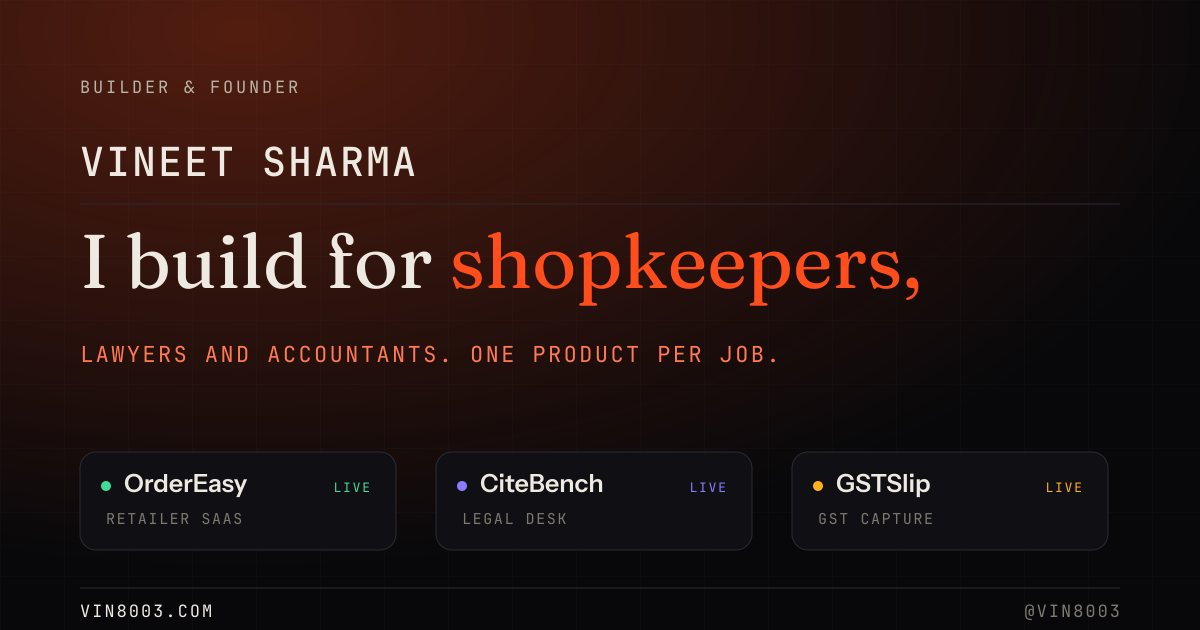
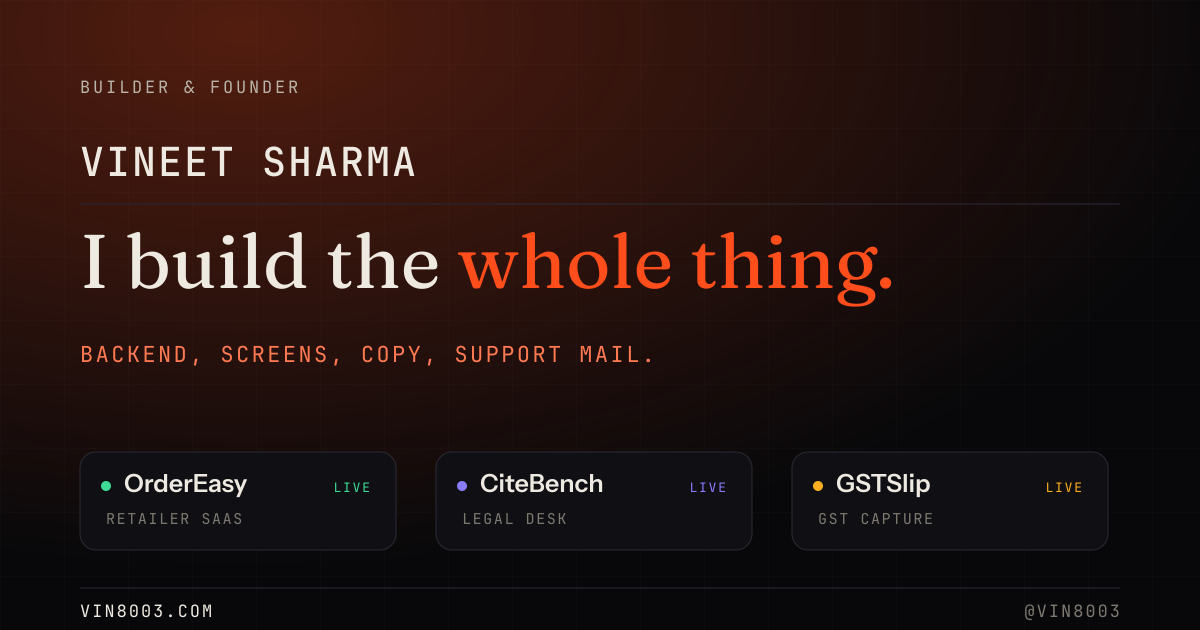
Make the tagline about Vineet, not the current product audiences
Hero claim is now 'I build the whole thing.' so it survives new products;
the subline carries the end-to-end loop and today's products. Thesis line
drops the 'army of AI assistants' framing for narrow products. Title,
meta tagline, About opener and social card follow.

Claude-Session: https://claude.ai/code/session_01DqFKXnwwENUUCsbrohHLwa

Changed region(s): [[0.2775, 0.3619, 0.7708, 0.4825], [0.0617, 0.5429, 0.6475, 0.573]]

diff --git a/src/data/site.ts b/src/data/site.ts
@@ -12,11 +12,11 @@ export const person = {
   location: 'Delhi NCR, India',
   email: 'vin8003@gmail.com',
   /** The line the whole site hangs off. */
-  claim: 'I build for shopkeepers, lawyers and accountants.',
+  claim: 'I build the whole thing.',
   /** Banner thesis - the wordmark's other half. */
   thesisLine: 'One product per job, done properly.',
   identity: 'Builder and founder. Dad of two. Delhi NCR, India.',
-  tagline: 'Builder and founder. I build software for people who still run their work by hand: the shop counter, the lawyer’s diary, the pile of GST invoices.',
+  tagline: 'Builder and founder in Delhi NCR. I build the whole thing, backend to support inbox, and keep every product to one job.',
 } as const;
 
 export const socials = [
@@ -883,7 +883,7 @@ export const buildLog: LogEntry[] = [
 
 /** THESIS - the founder line, then the working detail. */
 export const thesis = {
-  line: 'I want to build an army of AI assistants, each handling one specific piece of work.',
+  line: 'I want to build many narrow products, each doing one specific piece of work properly.',
   body: [
     'Not one assistant that claims to do everything. A set of narrow ones, each with its own surface, its own guardrail and its own definition of done. A general assistant is a demo. A narrow one is a colleague.',
     'The products are the first recruits, and each one says plainly what it is not. None of them pretends to do another one’s job.',
@@ -905,7 +905,7 @@ export const thesis = {
 /** ABOUT - short and personal. Not a résumé. */
 export const about = {
   lines: [
-    'I build software for people whose work still runs on registers and memory: a shop counter, a chamber’s diary, a month of GST invoices. I write the backend, the surface and the copy, then sit with the support mail. That whole loop is the job I actually wanted.',
+    'I write the backend, the surface and the copy, then sit with the support mail. That whole loop is the job I actually wanted.',
     'Ten years of Python and Django before this, across embedded electronics and sensors, fintech and banking, medical systems, casino gaming, image pipelines and AI data work. Different industries, same habit: get the thing into somebody’s hands and watch what breaks.',
     'Dad of two, in Delhi NCR. That is most of the reason the tooling has to be fast and the scope has to stay honest.',
   ],

diff --git a/README.md b/README.md
@@ -7,13 +7,13 @@ It is a static site: the front page below, plus `/demo/`, which hosts the four g
 
 | #   | Section          | Anchor      | What it holds                                                          |
 | --- | ---------------- | ----------- | ---------------------------------------------------------------------- |
-| —   | **Hero**         | `#top`      | "I build for shopkeepers, lawyers and accountants.", the 3D constellation, and an index of everything on the site |
+| —   | **Hero**         | `#top`      | "I build the whole thing.", the 3D constellation, and an index of everything on the site |
 | 01  | **Building now** | `#building` | The active products, each with a `LIVE` / `BUILDING` status chip        |
 | 02  | **Demo**         | `#demo`     | The four guided journeys, played natively from the real captured screens |
 | 03  | **Build log**    | `#log`      | Latest 10 entries, linking to the full log at `/log/`; each links to a PR or commit |
 | 04  | **Field notes**  | `#notes`    | One month of AI agents in numbers, linking to `/notes/agent-month/`    |
 | —   | **Writing**      | `#writing`  | Newest 3 of the 7 X Articles in `src/data/articles.ts`. `/writing/` lists all, `/writing/<slug>/` holds each, canonical to its X post |
-| 05  | **Thesis**       | `#thesis`   | An army of AI assistants, one job each — plus what is parked           |
+| 05  | **Thesis**       | `#thesis`   | Narrow products, one job each — plus what is parked                    |
 | 06  | **About**        | `#about`    | Short and personal                                                     |
 | 07  | **Contact**      | `#contact`  | Email and socials. No hire-me pitch.                                   |
 
